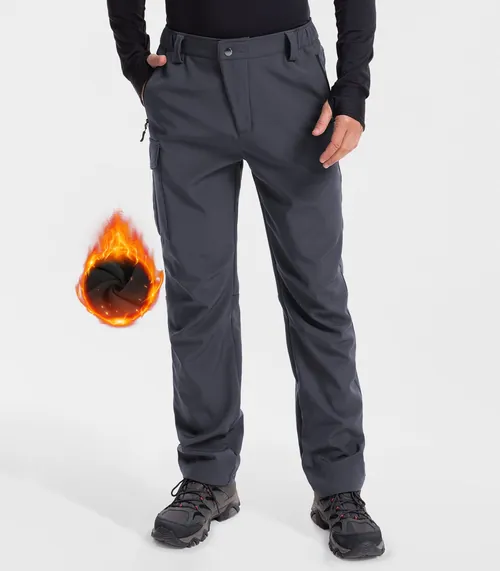
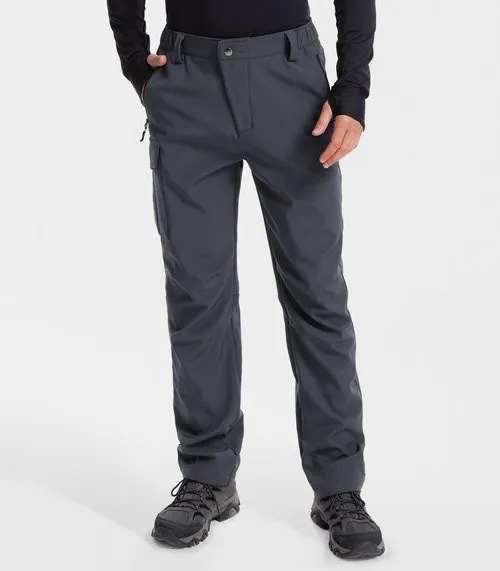
Gift session 1: US Amazon links, amazon_store, Moosehill badge removed
- amazon_store on all 19 Amazon gift listings: 15 com (links switched to
  amazon.com with thatfootbal01-20, buttons say Amazon.com), 4 ca-only
  (B0DWZVYRVR, B07DWR5Q8X, B0D6RD4NBV, B0DL2BZWKD) stay on amazon.ca
- Flame badge painted out of both Moosehill photos (N129, N130), WebPs
  regenerated
- sitemap.xml refreshed

Changed region(s): [[0.15, 0.3573, 0.33, 0.5954]]

diff --git a/gift-guide/index.html b/gift-guide/index.html
@@ -802,13 +802,13 @@
      "@type": "ListItem",
      "position": 25,
      "name": "TRENDOUX Merino Wool Touchscreen Gloves",
-     "url": "https://www.amazon.ca/dp/B07WJ3FPBP?tag=thatfootballg-ca-20"
+     "url": "https://www.amazon.com/dp/B07WJ3FPBP?tag=thatfootbal01-20"
     },
     {
      "@type": "ListItem",
      "position": 26,
      "name": "GOT Sports Polar Fleece Neck Warmer",
-     "url": "https://www.amazon.ca/dp/B08KG22Z12?tag=thatfootballg-ca-20"
+     "url": "https://www.amazon.com/dp/B08KG22Z12?tag=thatfootbal01-20"
     },
     {
      "@type": "ListItem",
@@ -820,13 +820,13 @@
      "@type": "ListItem",
      "position": 28,
      "name": "MAGCOMSEN Fleece-Lined Thermal Top",
-     "url": "https://www.amazon.ca/dp/B0CSYNSQ1Q?tag=thatfootballg-ca-20"
+     "url": "https://www.amazon.com/dp/B0CSYNSQ1Q?tag=thatfootbal01-20"
     },
     {
      "@type": "ListItem",
      "position": 29,
      "name": "Columbia Whirlibird Watch Cap Beanie",
-     "url": "https://www.amazon.ca/dp/B00RC6X4R6?tag=thatfootballg-ca-20"
+     "url": "https://www.amazon.com/dp/B00RC6X4R6?tag=thatfootbal01-20"
     },
     {
      "@type": "ListItem",
@@ -1012,19 +1012,19 @@
      "@type": "ListItem",
      "position": 60,
      "name": "FZ Fantastic Zone Beanie, Scarf and Gloves Set",
-     "url": "https://www.amazon.ca/dp/B0777FLXKP?tag=thatfootballg-ca-20"
+     "url": "https://www.amazon.com/dp/B0777FLXKP?tag=thatfootbal01-20"
     },
     {
      "@type": "ListItem",
      "position": 61,
      "name": "CL convallaria Thermal Long Johns Set",
-     "url": "https://www.amazon.ca/dp/B08DQYVLZ4?tag=thatfootballg-ca-20"
+     "url": "https://www.amazon.com/dp/B08DQYVLZ4?tag=thatfootbal01-20"
     },
     {
      "@type": "ListItem",
      "position": 62,
      "name": "Waterproof Fleece Outdoor Stadium Blanket",
-     "url": "https://www.amazon.ca/dp/B07ZSG89Z1?tag=thatfootballg-ca-20"
+     "url": "https://www.amazon.com/dp/B07ZSG89Z1?tag=thatfootbal01-20"
     },
     {
      "@type": "ListItem",
@@ -1036,13 +1036,13 @@
      "@type": "ListItem",
      "position": 64,
      "name": "Amazon Essentials Packable Puffer Vest",
-     "url": "https://www.amazon.ca/dp/B08SS4GJ5G?tag=thatfootballg-ca-20"
+     "url": "https://www.amazon.com/dp/B08SS4GJ5G?tag=thatfootbal01-20"
     },
     {
      "@type": "ListItem",
      "position": 65,
      "name": "Amazon Essentials Packable Puffer Jacket",
-     "url": "https://www.amazon.ca/dp/B07C8YBM2T?tag=thatfootballg-ca-20"
+     "url": "https://www.amazon.com/dp/B07C8YBM2T?tag=thatfootbal01-20"
     },
     {
      "@type": "ListItem",
@@ -1210,13 +1210,13 @@
      "@type": "ListItem",
      "position": 93,
      "name": "OneTigris Wearable Camping Blanket Poncho",
-     "url": "https://www.amazon.ca/dp/B0FKMV75W2?tag=thatfootballg-ca-20"
+     "url": "https://www.amazon.com/dp/B0FKMV75W2?tag=thatfootbal01-20"
     },
     {
      "@type": "ListItem",
      "position": 94,
      "name": "Heated Vest with 16000mAh Battery",
-     "url": "https://www.amazon.ca/dp/B0BBGPT59X?tag=thatfootballg-ca-20"
+     "url": "https://www.amazon.com/dp/B0BBGPT59X?tag=thatfootbal01-20"
     },
     {
      "@type": "ListItem",
@@ -1414,25 +1414,25 @@
      "@type": "ListItem",
      "position": 127,
      "name": "Calvin Klein Mid-Weight Sherpa-Lined Puffer Jacket",
-     "url": "https://www.amazon.ca/dp/B08ZNZ9NFT?tag=thatfootballg-ca-20"
+     "url": "https://www.amazon.com/dp/B08ZNZ9NFT?tag=thatfootbal01-20"
     },
     {
      "@type": "ListItem",
      "position": 128,
      "name": "SAVIOR HEAT App-Control Heated Gloves",
-     "url": "https://www.amazon.ca/dp/B0H32BG8Z9?tag=thatfootballg-ca-20"
+     "url": "https://www.amazon.com/dp/B0H32BG8Z9?tag=thatfootbal01-20"
     },
     {
      "@type": "ListItem",
      "position": 129,
      "name": "Carhartt Sherpa-Lined Mock-Neck Vest",
-     "url": "https://www.amazon.ca/dp/B08BG6GY76?tag=thatfootballg-ca-20"
+     "url": "https://www.amazon.com/dp/B08BG6GY76?tag=thatfootbal01-20"
     },
     {
      "@type": "ListItem",
      "position": 130,
      "name": "Carhartt Bartlett Jacket",
-     "url": "https://www.amazon.ca/dp/B07RX5VMT8?tag=thatfootballg-ca-20"
+     "url": "https://www.amazon.com/dp/B07RX5VMT8?tag=thatfootbal01-20"
     }
    ]
   },
@@ -1928,7 +1928,7 @@
             <h3 class="prod-name">TRENDOUX Merino Wool Touchscreen Gloves</h3>
             <p class="best-for">Best for: the guy always on his phone</p>
             <p class="blurb">Merino wool winter gloves with touchscreen fingertips. He can check his phone at the bus stop without freezing his hands, and they&#x27;re slim enough to keep in a coat pocket.</p>
-            <a class="gg-shop" href="https://www.amazon.ca/dp/B07WJ3FPBP?tag=thatfootballg-ca-20" target="_blank" rel="sponsored nofollow noopener" aria-label="Shop TRENDOUX Merino Wool Touchscreen Gloves on Amazon.ca (opens in a new tab)">Shop on Amazon.ca<span class="link-text" hidden>TRENDOUX Merino Wool Touchscreen Gloves</span></a>
+            <a class="gg-shop" href="https://www.amazon.com/dp/B07WJ3FPBP?tag=thatfootbal01-20" target="_blank" rel="sponsored nofollow noopener" aria-label="Shop TRENDOUX Merino Wool Touchscreen Gloves on Amazon.com (opens in a new tab)">Shop on Amazon.com<span class="link-text" hidden>TRENDOUX Merino Wool Touchscreen Gloves</span></a>
           </div>
         </article>
         <article class="card-tile" data-id="N107" data-tags="gameday" id="N107">
@@ -1941,7 +1941,7 @@
             <h3 class="prod-name">GOT Sports Polar Fleece Neck Warmer</h3>
             <p class="best-for">Best for: the guy at every outdoor game</p>
             <p class="blurb">A polar fleece neck warmer that seals the gap a coat collar leaves open. Light, easy to pull on, and it packs down to nothing in a game day bag.</p>
-            <a class="gg-shop" href="https://www.amazon.ca/dp/B08KG22Z12?tag=thatfootballg-ca-20" target="_blank" rel="sponsored nofollow noopener" aria-label="Shop GOT Sports Polar Fleece Neck Warmer on Amazon.ca (opens in a new tab)">Shop on Amazon.ca<span class="link-text" hidden>GOT Sports Polar Fleece Neck Warmer</span></a>
+            <a class="gg-shop" href="https://www.amazon.com/dp/B08KG22Z12?tag=thatfootbal01-20" target="_blank" rel="sponsored nofollow noopener" aria-label="Shop GOT Sports Polar Fleece Neck Warmer on Amazon.com (opens in a new tab)">Shop on Amazon.com<span class="link-text" hidden>GOT Sports Polar Fleece Neck Warmer</span></a>
           </div>
         </article>
         <article class="card-tile" data-id="N108" data-tags="gameday" id="N108">
@@ -1967,7 +1967,7 @@
             <h3 class="prod-name">MAGCOMSEN Fleece-Lined Thermal Top</h3>
             <p class="best-for">Best for: the guy who&#x27;s always cold</p>
             <p class="blurb">A fleece-lined thermal top that goes under a hoodie or a jacket. It&#x27;s the first layer for cold commutes and late-season games.</p>
-            <a class="gg-shop" href="https://www.amazon.ca/dp/B0CSYNSQ1Q?tag=thatfootballg-ca-20" target="_blank" rel="sponsored nofollow noopener" aria-label="Shop MAGCOMSEN Fleece-Lined Thermal Top on Amazon.ca (opens in a new tab)">Shop on Amazon.ca<span class="link-text" hidden>MAGCOMSEN Fleece-Lined Thermal Top</span></a>
+            <a class="gg-shop" href="https://www.amazon.com/dp/B0CSYNSQ1Q?tag=thatfootbal01-20" target="_blank" rel="sponsored nofollow noopener" aria-label="Shop MAGCOMSEN Fleece-Lined Thermal Top on Amazon.com (opens in a new tab)">Shop on Amazon.com<span class="link-text" hidden>MAGCOMSEN Fleece-Lined Thermal Top</span></a>
           </div>
         </article>
         <article class="card-tile" data-id="N110" data-tags="everyday" id="N110">
@@ -1980,7 +1980,7 @@
             <h3 class="prod-name">Columbia Whirlibird Watch Cap Beanie</h3>
             <p class="best-for">Best for: the guy who loses his toque every year</p>
             <p class="blurb">A classic watch cap beanie from Columbia. It&#x27;s a simple, familiar shape that goes with any winter coat he already owns.</p>
-            <a class="gg-shop" href="https://www.amazon.ca/dp/B00RC6X4R6?tag=thatfootballg-ca-20" target="_blank" rel="sponsored nofollow noopener" aria-label="Shop Columbia Whirlibird Watch Cap Beanie on Amazon.ca (opens in a new tab)">Shop on Amazon.ca<span class="link-text" hidden>Columbia Whirlibird Watch Cap Beanie</span></a>
+            <a class="gg-shop" href="https://www.amazon.com/dp/B00RC6X4R6?tag=thatfootbal01-20" target="_blank" rel="sponsored nofollow noopener" aria-label="Shop Columbia Whirlibird Watch Cap Beanie on Amazon.com (opens in a new tab)">Shop on Amazon.com<span class="link-text" hidden>Columbia Whirlibird Watch Cap Beanie</span></a>
           </div>
         </article>
         <article class="card-tile" data-id="N111" data-tags="gameday" id="N111">
@@ -2388,7 +2388,7 @@
             <h3 class="prod-name">FZ Fantastic Zone Beanie, Scarf and Gloves Set</h3>
             <p class="best-for">Best for: the guy who needs the whole set</p>
             <p class="blurb">A matching beanie, scarf and touchscreen gloves in one gift. It covers his whole winter kit in a single box, so there&#x27;s nothing else to shop for.</p>
-            <a class="gg-shop" href="https://www.amazon.ca/dp/B0777FLXKP?tag=thatfootballg-ca-20" target="_blank" rel="sponsored nofollow noopener" aria-label="Shop FZ Fantastic Zone Beanie, Scarf and Gloves Set on Amazon.ca (opens in a new tab)">Shop on Amazon.ca<span class="link-text" hidden>FZ Fantastic Zone Beanie, Scarf and Gloves Set</span></a>
+            <a class="gg-shop" href="https://www.amazon.com/dp/B0777FLXKP?tag=thatfootbal01-20" target="_blank" rel="sponsored nofollow noopener" aria-label="Shop FZ Fantastic Zone Beanie, Scarf and Gloves Set on Amazon.com (opens in a new tab)">Shop on Amazon.com<span class="link-text" hidden>FZ Fantastic Zone Beanie, Scarf and Gloves Set</span></a>
           </div>
         </article>
         <article class="card-tile" data-id="N113" data-tags="homebody" id="N113">
@@ -2401,7 +2401,7 @@
             <h3 class="prod-name">CL convallaria Thermal Long Johns Set</h3>
             <p class="best-for">Best for: the guy who&#x27;s always cold</p>
             <p class="blurb">A two-piece thermal long johns set for under his clothes on cold days, or on its own around the house. An easy gift he&#x27;ll be glad of by January.</p>
-            <a class="gg-shop" href="https://www.amazon.ca/dp/B08DQYVLZ4?tag=thatfootballg-ca-20" target="_blank" rel="sponsored nofollow noopener" aria-label="Shop CL convallaria Thermal Long Johns Set on Amazon.ca (opens in a new tab)">Shop on Amazon.ca<span class="link-text" hidden>CL convallaria Thermal Long Johns Set</span></a>
+            <a class="gg-shop" href="https://www.amazon.com/dp/B08DQYVLZ4?tag=thatfootbal01-20" target="_blank" rel="sponsored nofollow noopener" aria-label="Shop CL convallaria Thermal Long Johns Set on Amazon.com (opens in a new tab)">Shop on Amazon.com<span class="link-text" hidden>CL convallaria Thermal Long Johns Set</span></a>
           </div>
         </article>
         <article class="card-tile" data-id="N114" data-tags="gameday" id="N114">
@@ -2414,7 +2414,7 @@
             <h3 class="prod-name">Waterproof Fleece Outdoor Stadium Blanket</h3>
             <p class="best-for">Best for: the guy who sits through every snap</p>
             <p class="blurb">A waterproof fleece outdoor blanket. It goes down on a wet bleacher or over his knees, and it&#x27;s handy for tailgates and picnics too.</p>
-            <a class="gg-shop" href="https://www.amazon.ca/dp/B07ZSG89Z1?tag=thatfootballg-ca-20" target="_blank" rel="sponsored nofollow noopener" aria-label="Shop Waterproof Fleece Outdoor Stadium Blanket on Amazon.ca (opens in a new tab)">Shop on Amazon.ca<span class="link-text" hidden>Waterproof Fleece Outdoor Stadium Blanket</span></a>
+            <a class="gg-shop" href="https://www.amazon.com/dp/B07ZSG89Z1?tag=thatfootbal01-20" target="_blank" rel="sponsored nofollow noopener" aria-label="Shop Waterproof Fleece Outdoor Stadium Blanket on Amazon.com (opens in a new tab)">Shop on Amazon.com<span class="link-text" hidden>Waterproof Fleece Outdoor Stadium Blanket</span></a>
           </div>
         </article>
         <article class="card-tile" data-id="N115" data-tags="gameday" id="N115">
@@ -2440,7 +2440,7 @@
             <h3 class="prod-name">Amazon Essentials Packable Puffer Vest</h3>
             <p class="best-for">Best for: the guy who layers everything</p>
             <p class="blurb">A lightweight puffer vest that packs down small. It works over a hoodie in the fall and under a coat when it gets colder.</p>
-            <a class="gg-shop" href="https://www.amazon.ca/dp/B08SS4GJ5G?tag=thatfootballg-ca-20" target="_blank" rel="sponsored nofollow noopener" aria-label="Shop Amazon Essentials Packable Puffer Vest on Amazon.ca (opens in a new tab)">Shop on Amazon.ca<span class="link-text" hidden>Amazon Essentials Packable Puffer Vest</span></a>
+            <a class="gg-shop" href="https://www.amazon.com/dp/B08SS4GJ5G?tag=thatfootbal01-20" target="_blank" rel="sponsored nofollow noopener" aria-label="Shop Amazon Essentials Packable Puffer Vest on Amazon.com (opens in a new tab)">Shop on Amazon.com<span class="link-text" hidden>Amazon Essentials Packable Puffer Vest</span></a>
           </div>
         </article>
         <article class="card-tile" data-id="N117" data-tags="everyday" id="N117">
@@ -2453,7 +2453,7 @@
             <h3 class="prod-name">Amazon Essentials Packable Puffer Jacket</h3>
             <p class="best-for">Best for: the guy who travels light</p>
             <p class="blurb">A lightweight puffer jacket that packs into a bag for trips and in-between weather. It&#x27;s an easy everyday layer that goes with anything.</p>
-            <a class="gg-shop" href="https://www.amazon.ca/dp/B07C8YBM2T?tag=thatfootballg-ca-20" target="_blank" rel="sponsored nofollow noopener" aria-label="Shop Amazon Essentials Packable Puffer Jacket on Amazon.ca (opens in a new tab)">Shop on Amazon.ca<span class="link-text" hidden>Amazon Essentials Packable Puffer Jacket</span></a>
+            <a class="gg-shop" href="https://www.amazon.com/dp/B07C8YBM2T?tag=thatfootbal01-20" target="_blank" rel="sponsored nofollow noopener" aria-label="Shop Amazon Essentials Packable Puffer Jacket on Amazon.com (opens in a new tab)">Shop on Amazon.com<span class="link-text" hidden>Amazon Essentials Packable Puffer Jacket</span></a>
           </div>
         </article>
         <article class="card-tile" data-id="N125" data-tags="everyday" id="N125">
@@ -2822,7 +2822,7 @@
             <h3 class="prod-name">OneTigris Wearable Camping Blanket Poncho</h3>
             <p class="best-for">Best for: the camper and cold-game regular</p>
             <p class="blurb">A blanket he can wear, so his hands stay free for food and a drink. It&#x27;s made for camping and it&#x27;s just as good in the stands on a freezing night.</p>
-            <a class="gg-shop" href="https://www.amazon.ca/dp/B0FKMV75W2?tag=thatfootballg-ca-20" target="_blank" rel="sponsored nofollow noopener" aria-label="Shop OneTigris Wearable Camping Blanket Poncho on Amazon.ca (opens in a new tab)">Shop on Amazon.ca<span class="link-text" hidden>OneTigris Wearable Camping Blanket Poncho</span></a>
+            <a class="gg-shop" href="https://www.amazon.com/dp/B0FKMV75W2?tag=thatfootbal01-20" target="_blank" rel="sponsored nofollow noopener" aria-label="Shop OneTigris Wearable Camping Blanket Poncho on Amazon.com (opens in a new tab)">Shop on Amazon.com<span class="link-text" hidden>OneTigris Wearable Camping Blanket Poncho</span></a>
           </div>
         </article>
         <article class="card-tile" data-id="N120" data-tags="gameday" id="N120">
@@ -2835,7 +2835,7 @@
             <h3 class="prod-name">Heated Vest with 16000mAh Battery</h3>
             <p class="best-for">Best for: the guy who&#x27;s outside all winter</p>
             <p class="blurb">A heated vest that comes with a 16000mAh battery, so it&#x27;s ready to go out of the box. It&#x27;s a warm layer for long games, cold job sites and winter dog walks.</p>
-            <a class="gg-shop" href="https://www.amazon.ca/dp/B0BBGPT59X?tag=thatfootballg-ca-20" target="_blank" rel="sponsored nofollow noopener" aria-label="Shop Heated Vest with 16000mAh Battery on Amazon.ca (opens in a new tab)">Shop on Amazon.ca<span class="link-text" hidden>Heated Vest with 16000mAh Battery</span></a>
+            <a class="gg-shop" href="https://www.amazon.com/dp/B0BBGPT59X?tag=thatfootbal01-20" target="_blank" rel="sponsored nofollow noopener" aria-label="Shop Heated Vest with 16000mAh Battery on Amazon.com (opens in a new tab)">Shop on Amazon.com<span class="link-text" hidden>Heated Vest with 16000mAh Battery</span></a>
           </div>
         </article>
         <article class="card-tile" data-id="N127" data-tags="everyday" id="N127">
@@ -3269,7 +3269,7 @@
             <h3 class="prod-name">Calvin Klein Mid-Weight Sherpa-Lined Puffer Jacket</h3>
             <p class="best-for">Best for: the guy who wants to look sharp in the cold</p>
             <p class="blurb">A mid-weight Calvin Klein puffer with a sherpa lining. It&#x27;s clean enough to wear to the office and warm enough for the walk there.</p>
-            <a class="gg-shop" href="https://www.amazon.ca/dp/B08ZNZ9NFT?tag=thatfootballg-ca-20" target="_blank" rel="sponsored nofollow noopener" aria-label="Shop Calvin Klein Mid-Weight Sherpa-Lined Puffer Jacket on Amazon.ca (opens in a new tab)">Shop on Amazon.ca<span class="link-text" hidden>Calvin Klein Mid-Weight Sherpa-Lined Puffer Jacket</span></a>
+            <a class="gg-shop" href="https://www.amazon.com/dp/B08ZNZ9NFT?tag=thatfootbal01-20" target="_blank" rel="sponsored nofollow noopener" aria-label="Shop Calvin Klein Mid-Weight Sherpa-Lined Puffer Jacket on Amazon.com (opens in a new tab)">Shop on Amazon.com<span class="link-text" hidden>Calvin Klein Mid-Weight Sherpa-Lined Puffer Jacket</span></a>
           </div>
         </article>
         <article class="card-tile" data-id="N122" data-tags="gameday" id="N122">
@@ -3282,7 +3282,7 @@
             <h3 class="prod-name">SAVIOR HEAT App-Control Heated Gloves</h3>
             <p class="best-for">Best for: the guy with permanently cold hands</p>
             <p class="blurb">Heated gloves with app control, so he can adjust the warmth from his phone. A real splurge for the guy who&#x27;s outside no matter the weather.</p>
-            <a class="gg-shop" href="https://www.amazon.ca/dp/B0H32BG8Z9?tag=thatfootballg-ca-20" target="_blank" rel="sponsored nofollow noopener" aria-label="Shop SAVIOR HEAT App-Control Heated Gloves on Amazon.ca (opens in a new tab)">Shop on Amazon.ca<span class="link-text" hidden>SAVIOR HEAT App-Control Heated Gloves</span></a>
+            <a class="gg-shop" href="https://www.amazon.com/dp/B0H32BG8Z9?tag=thatfootbal01-20" target="_blank" rel="sponsored nofollow noopener" aria-label="Shop SAVIOR HEAT App-Control Heated Gloves on Amazon.com (opens in a new tab)">Shop on Amazon.com<span class="link-text" hidden>SAVIOR HEAT App-Control Heated Gloves</span></a>
           </div>
         </article>
         <article class="card-tile" data-id="N123" data-tags="everyday" id="N123">
@@ -3295,7 +3295,7 @@
             <h3 class="prod-name">Carhartt Sherpa-Lined Mock-Neck Vest</h3>
             <p class="best-for">Best for: the guy who lives in workwear</p>
             <p class="blurb">A sherpa-lined Carhartt vest with a mock neck. It&#x27;s rugged workwear that looks just as right on a weekend as it does on the job.</p>
-            <a class="gg-shop" href="https://www.amazon.ca/dp/B08BG6GY76?tag=thatfootballg-ca-20" target="_blank" rel="sponsored nofollow noopener" aria-label="Shop Carhartt Sherpa-Lined Mock-Neck Vest on Amazon.ca (opens in a new tab)">Shop on Amazon.ca<span class="link-text" hidden>Carhartt Sherpa-Lined Mock-Neck Vest</span></a>
+            <a class="gg-shop" href="https://www.amazon.com/dp/B08BG6GY76?tag=thatfootbal01-20" target="_blank" rel="sponsored nofollow noopener" aria-label="Shop Carhartt Sherpa-Lined Mock-Neck Vest on Amazon.com (opens in a new tab)">Shop on Amazon.com<span class="link-text" hidden>Carhartt Sherpa-Lined Mock-Neck Vest</span></a>
           </div>
         </article>
         <article class="card-tile" data-id="N124" data-tags="everyday" id="N124">
@@ -3308,7 +3308,7 @@
             <h3 class="prod-name">Carhartt Bartlett Jacket</h3>
             <p class="best-for">Best for: the guy who keeps a jacket for years</p>
             <p class="blurb">The Bartlett jacket from Carhartt, a classic workwear piece that gets better the more he wears it. This is the buy-it-once gift of the list.</p>
-            <a class="gg-shop" href="https://www.amazon.ca/dp/B07RX5VMT8?tag=thatfootballg-ca-20" target="_blank" rel="sponsored nofollow noopener" aria-label="Shop Carhartt Bartlett Jacket on Amazon.ca (opens in a new tab)">Shop on Amazon.ca<span class="link-text" hidden>Carhartt Bartlett Jacket</span></a>
+            <a class="gg-shop" href="https://www.amazon.com/dp/B07RX5VMT8?tag=thatfootbal01-20" target="_blank" rel="sponsored nofollow noopener" aria-label="Shop Carhartt Bartlett Jacket on Amazon.com (opens in a new tab)">Shop on Amazon.com<span class="link-text" hidden>Carhartt Bartlett Jacket</span></a>
           </div>
         </article>
       </div>
